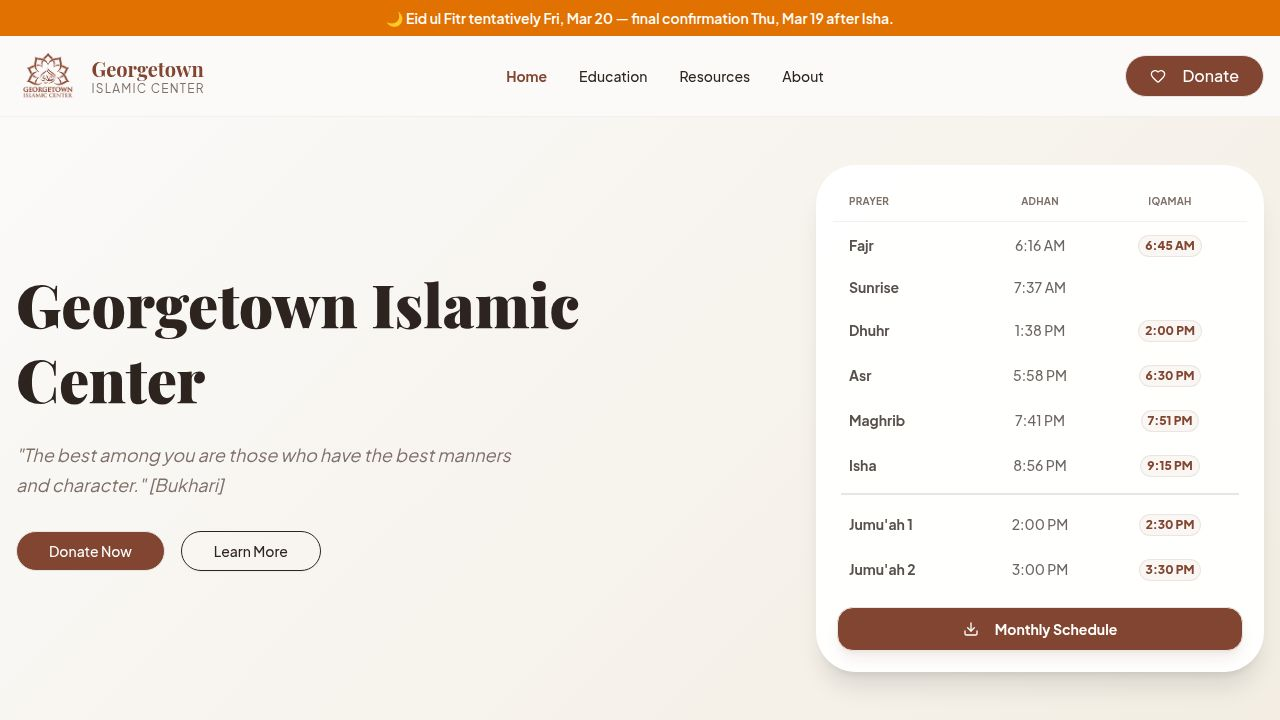
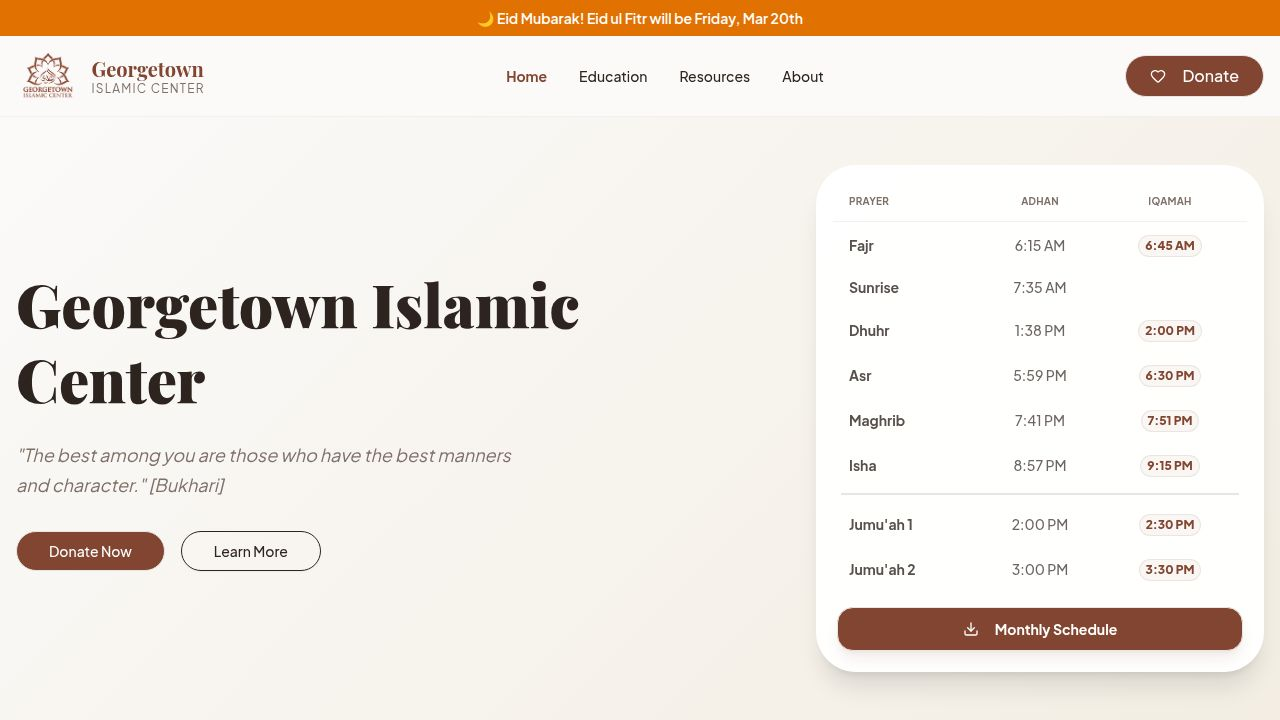
Update announcement bar with Eid greeting and link to event details
Update the announcement bar to display an Eid Mubarak greeting and make it a clickable link to the homepage, which displays event flyers.

Replit-Commit-Author: Agent
Replit-Commit-Session-Id: 90dbf637-7d7b-48bd-8dee-a562e8aaeab8
Replit-Commit-Checkpoint-Type: full_checkpoint
Replit-Commit-Event-Id: 2a3a9a8e-5aa7-4336-be24-61171e1708fa
Replit-Commit-Screenshot-Url: https://storage.googleapis.com/screenshot-production-us-central1/26670e8a-67b2-4db3-b8df-8cda70fd3d49/90dbf637-7d7b-48bd-8dee-a562e8aaeab8/mUNv1TG
Replit-Helium-Checkpoint-Created: true

Changed region(s): [[0.3125, 0.0, 0.6875, 0.0611]]

diff --git a/client/src/components/Navbar.tsx b/client/src/components/Navbar.tsx
@@ -17,12 +17,14 @@ export function Navbar() {
 
   return (
     <nav className="sticky top-0 z-50">
-      <div
-        className="block bg-amber-600 text-white text-center text-sm font-semibold py-2 px-4"
-        data-testid="announcement-bar"
-      >
-        🌙 Eid ul Fitr Tentatively Fri, Mar 20 | Final Confirmation Thu, Mar 19 after Isha
-      </div>
+      <Link href="/">
+        <div
+          className="block bg-amber-600 text-white text-center text-sm font-semibold py-2 px-4 hover:bg-amber-700 transition-colors cursor-pointer"
+          data-testid="announcement-bar"
+        >
+          🌙 Eid Mubarak! Eid ul Fitr will be Friday, Mar 20th
+        </div>
+      </Link>
 
       <div className="bg-background/80 backdrop-blur-md border-b border-border/50">
         <div className="max-w-7xl mx-auto container px-4 h-20 flex items-center justify-between">
